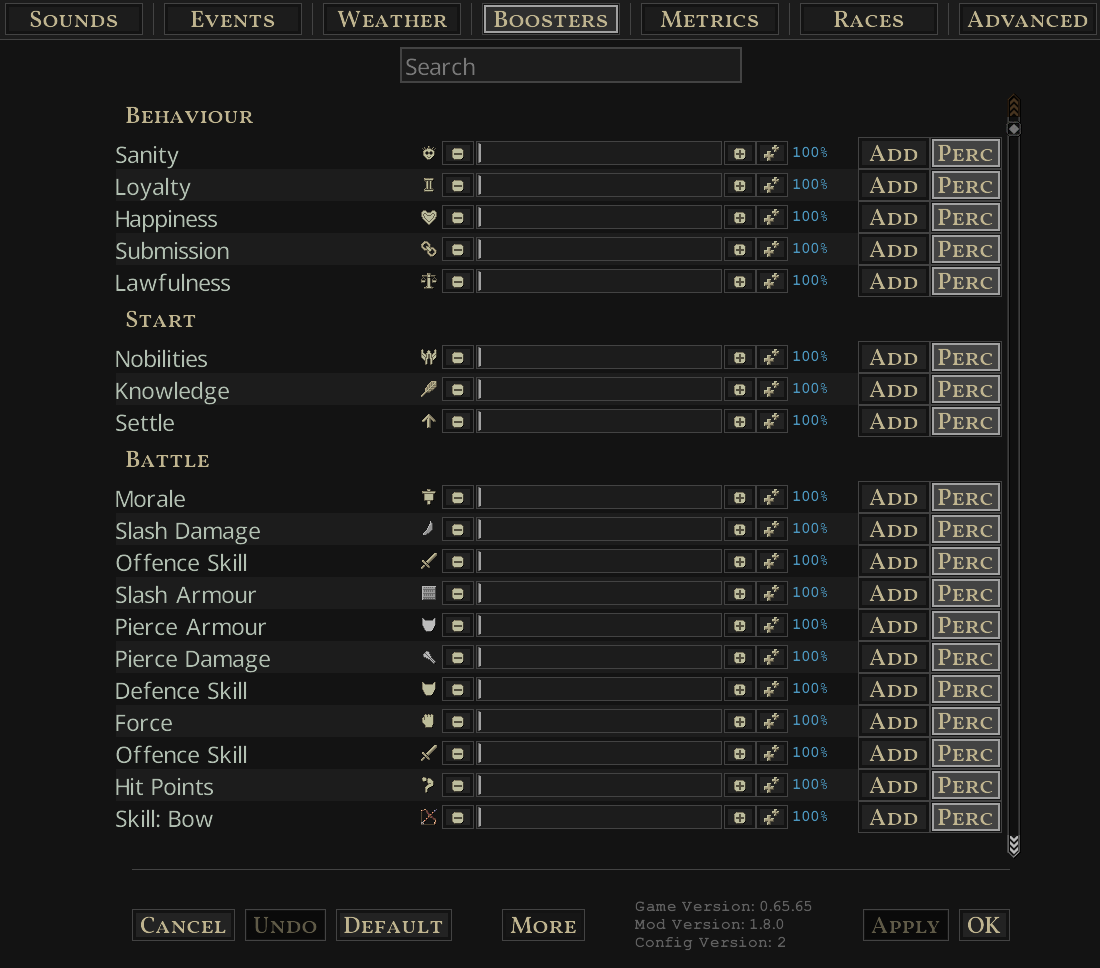
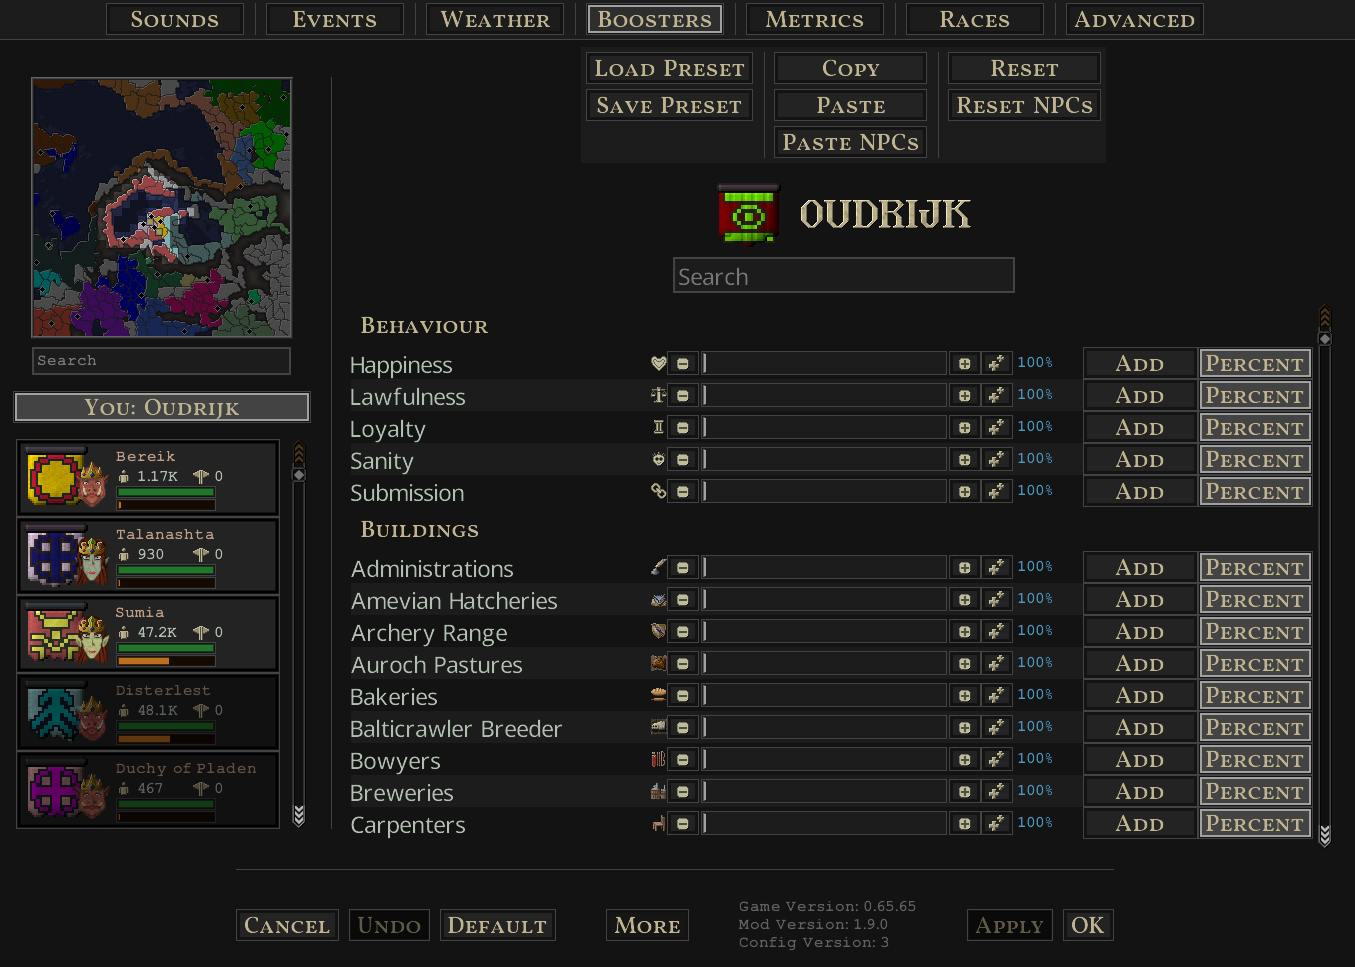
add some more code documentation; update boosters screenshot with factions on it;

diff --git a/src/main/java/com/github/argon/sos/moreoptions/config/json/JsonConfigStore.java b/src/main/java/com/github/argon/sos/moreoptions/config/json/JsonConfigStore.java
@@ -88,6 +88,11 @@ public class JsonConfigStore {
             .build());
     }
 
+    /**
+     * Remove a config class from the store
+     *
+     * @param configClass to remove
+     */
     public void unbind(Class<?> configClass) {
         configStore.remove(configClass);
         backupConfigStore.remove(configClass);
@@ -122,11 +127,17 @@ public class JsonConfigStore {
         return readMetas(configDefinition);
     }
 
+    /**
+     * @return file path of the currently loaded config class
+     */
     public Optional<Path> getPath(Class<?> configClass) {
         return Optional.ofNullable(configStore.get(configClass))
             .map(ConfigObject::getPath);
     }
 
+    /**
+     * @return backup file path of the currently loaded config class
+     */
     public Optional<Path> getBackupPath(Class<?> configClass) {
         return Optional.ofNullable(backupConfigStore.get(configClass))
             .map(ConfigObject::getPath);
@@ -146,6 +157,7 @@ public class JsonConfigStore {
             ConfigObject<?> configObject = backupConfigStore.get(configClass);
 
             if (configObject != null) {
+                //noinspection unchecked
                 config = (T) configObject.getConfig();
             }
         } catch (Exception e) {
@@ -174,6 +186,7 @@ public class JsonConfigStore {
             ConfigObject<?> configObject = backupConfigStore.get(configClass);
 
             if (configObject != null) {
+                //noinspection unchecked
                 config = (T) configObject.getConfig();
             }
         } catch (Exception e) {
@@ -202,7 +215,7 @@ public class JsonConfigStore {
     }
 
     /**
-     * Reloads only configs bound to saves from files
+     * Reloads configs bound not to saves from files
      */
     public void reloadNotBoundToSave() {
         Boolean success = configDefinitions.entrySet().stream()
@@ -326,18 +339,14 @@ public class JsonConfigStore {
         return true;
     }
 
-    public <T> Optional<T> loadFromPath(Class<T> configClass, String fileName) {
-        ConfigDefinition configDefinition = this.configDefinitions.get(configClass);
-
-        if (configDefinition == null) {
-            log.debug("Can not load %s config from file %s. No config entry.", configClass, fileName);
-            return Optional.empty();
-        }
-
-        Path path = configDefinition.getPath().resolve(fileName);
-        return load(configClass, path, false);
-    }
-
+    /**
+     * Will read a config file with the given path. Will not store the read config.
+     *
+     * @param configClass to read
+     * @param path of the file with content
+     * @return read config class with content
+     * @param <T> type of the config class
+     */
     public <T> Optional<T> readFromPath(Class<T> configClass, Path path) {
         ConfigDefinition configDefinition = this.configDefinitions.get(configClass);
 

diff --git a/src/main/java/com/github/argon/sos/moreoptions/config/json/JsonConfigVersionHandler.java b/src/main/java/com/github/argon/sos/moreoptions/config/json/JsonConfigVersionHandler.java
@@ -69,7 +69,7 @@ public class JsonConfigVersionHandler {
                     }).orElse(null);
                 break;
             default:
-                log.info("Can not handle config version %s", version);
+                log.info("Can not handle config version V%s", version);
                 break;
         }
 
